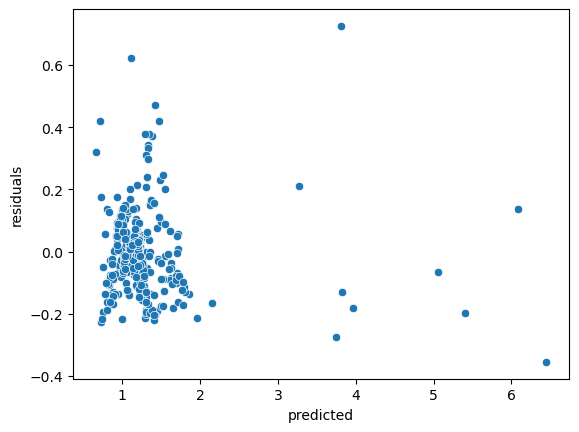
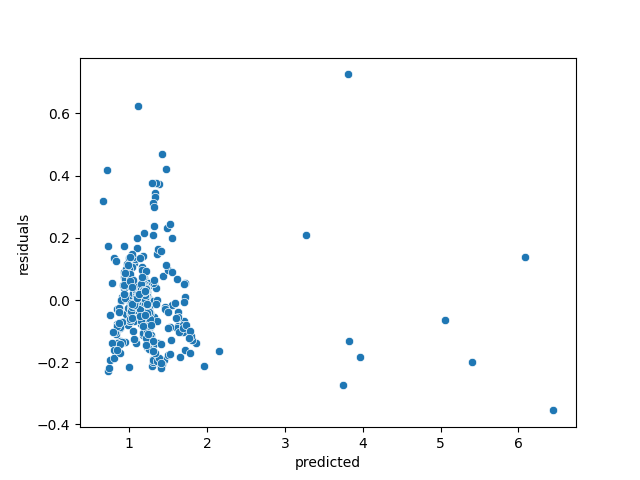
final

diff --git a/Assignment1_p2.py b/Assignment1_p2.py
@@ -12,6 +12,7 @@ from sklearn import preprocessing as p
 from scipy.stats import f
 from sklearn.metrics import mean_squared_error, mean_absolute_error ,r2_score
 import sys
+import matplotlib.pyplot as plt
 
 
 # taking the csv file as input to create the model
@@ -58,12 +59,6 @@ print("y values :- \n",y)
 # assigning x as the dataframe 
 x=df
 print("x values :- \n",x)
-
-
-
-# creating a heatmap of the correlation matrix 
-fig,axis = plt.subplots(figsize = (20,12))
-sns.heatmap(x.corr(),annot=True)
 
 
 
@@ -179,5 +174,5 @@ data = {
 dfr = pd.DataFrame(data)
 sns.scatterplot(data=dfr, x="predicted", y="residuals")
 
-
+plt.savefig(file[:-4] +"residual.png")
 # ##### 
